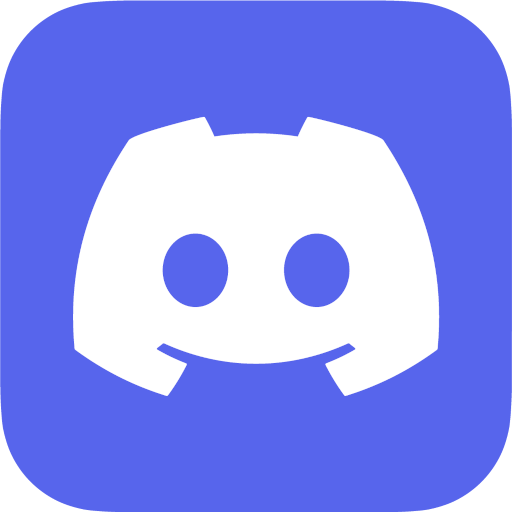
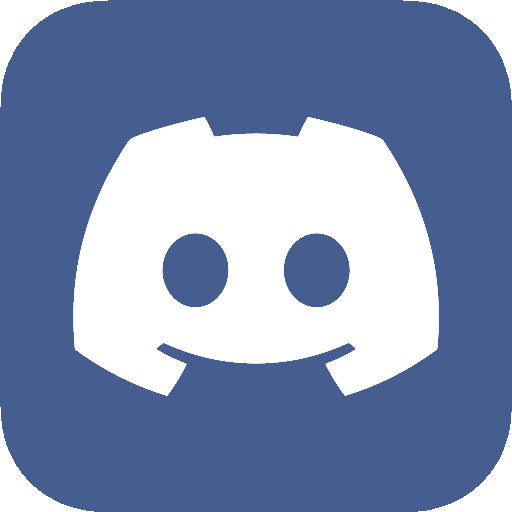
recolor and added patreon link

diff --git a/index.html b/index.html
@@ -57,7 +57,9 @@
     <li style="animation-delay: 1.4s; width: fit-content;">
       <a href="https://github.com/slmshi/slmshi.github.io" style="color: rgb(55, 88, 88);">Github</a> 
     </li>
-
+    <li style="animation-delay: 1.5s;">
+      <a href="https://www.patreon.com/suhirollofficial" style="color: rgb(55, 88, 88);">Patreon</a>
+    </li>
   </ul>
 </div>
 
